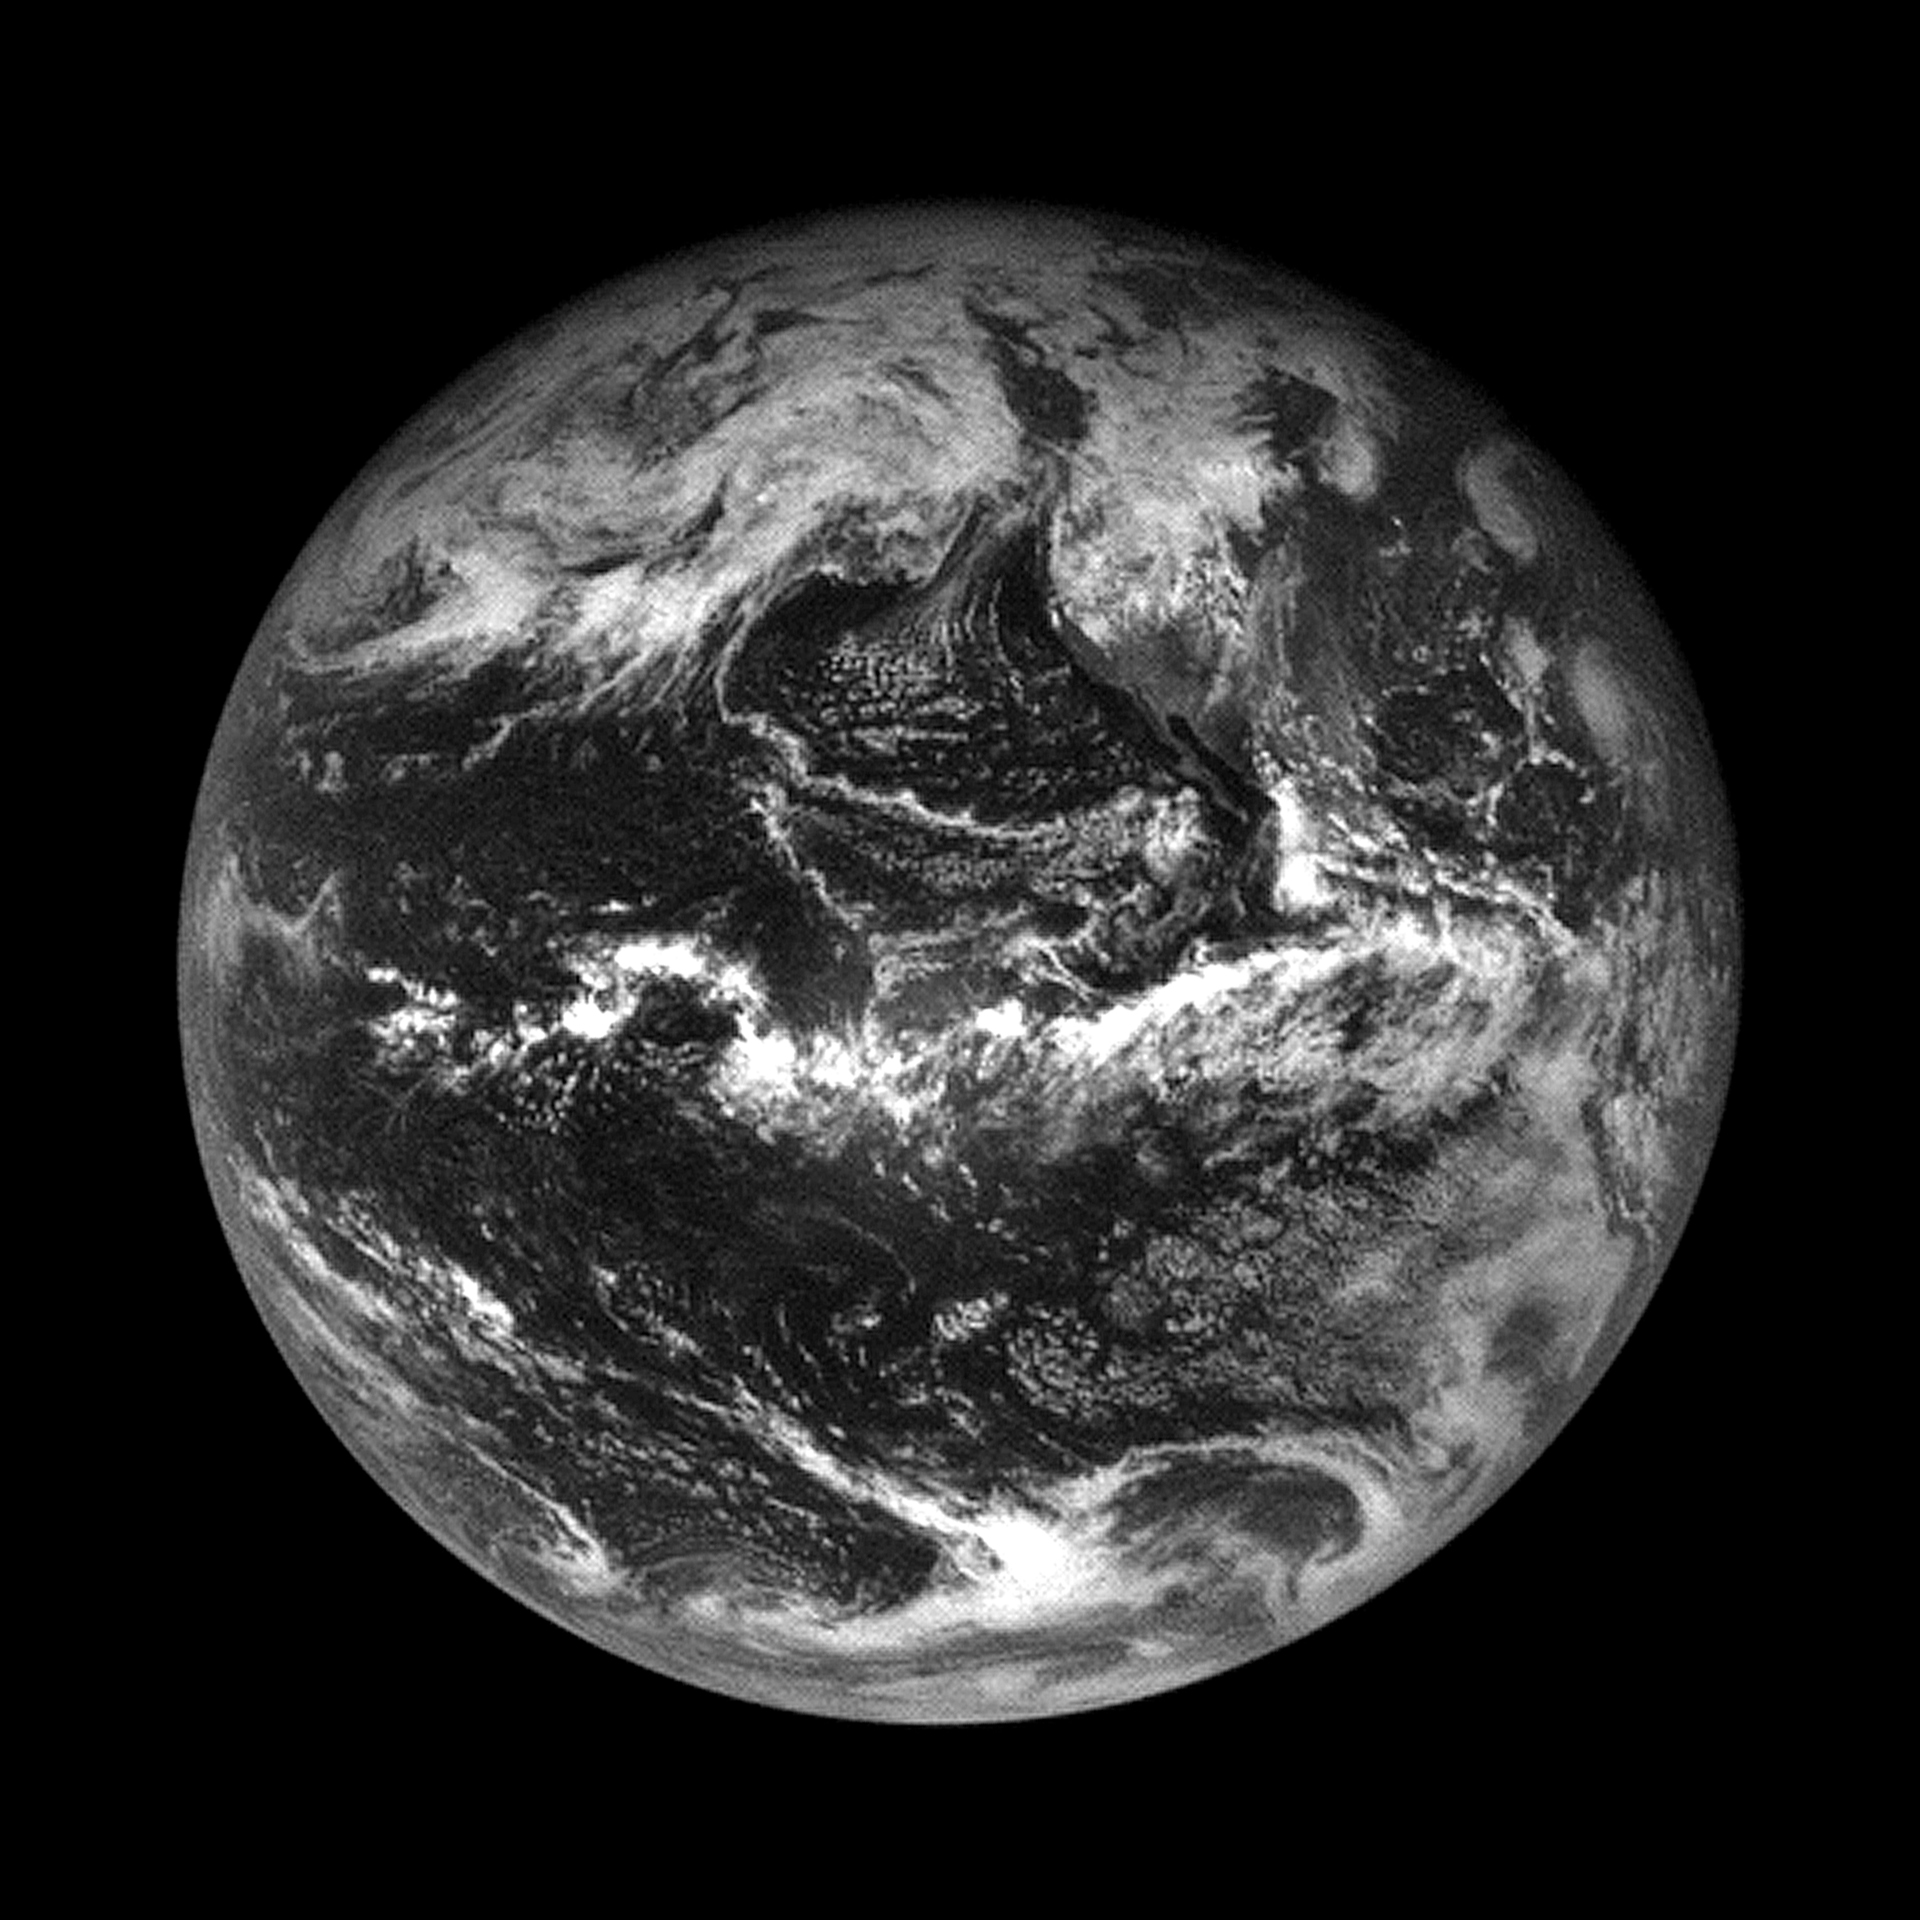
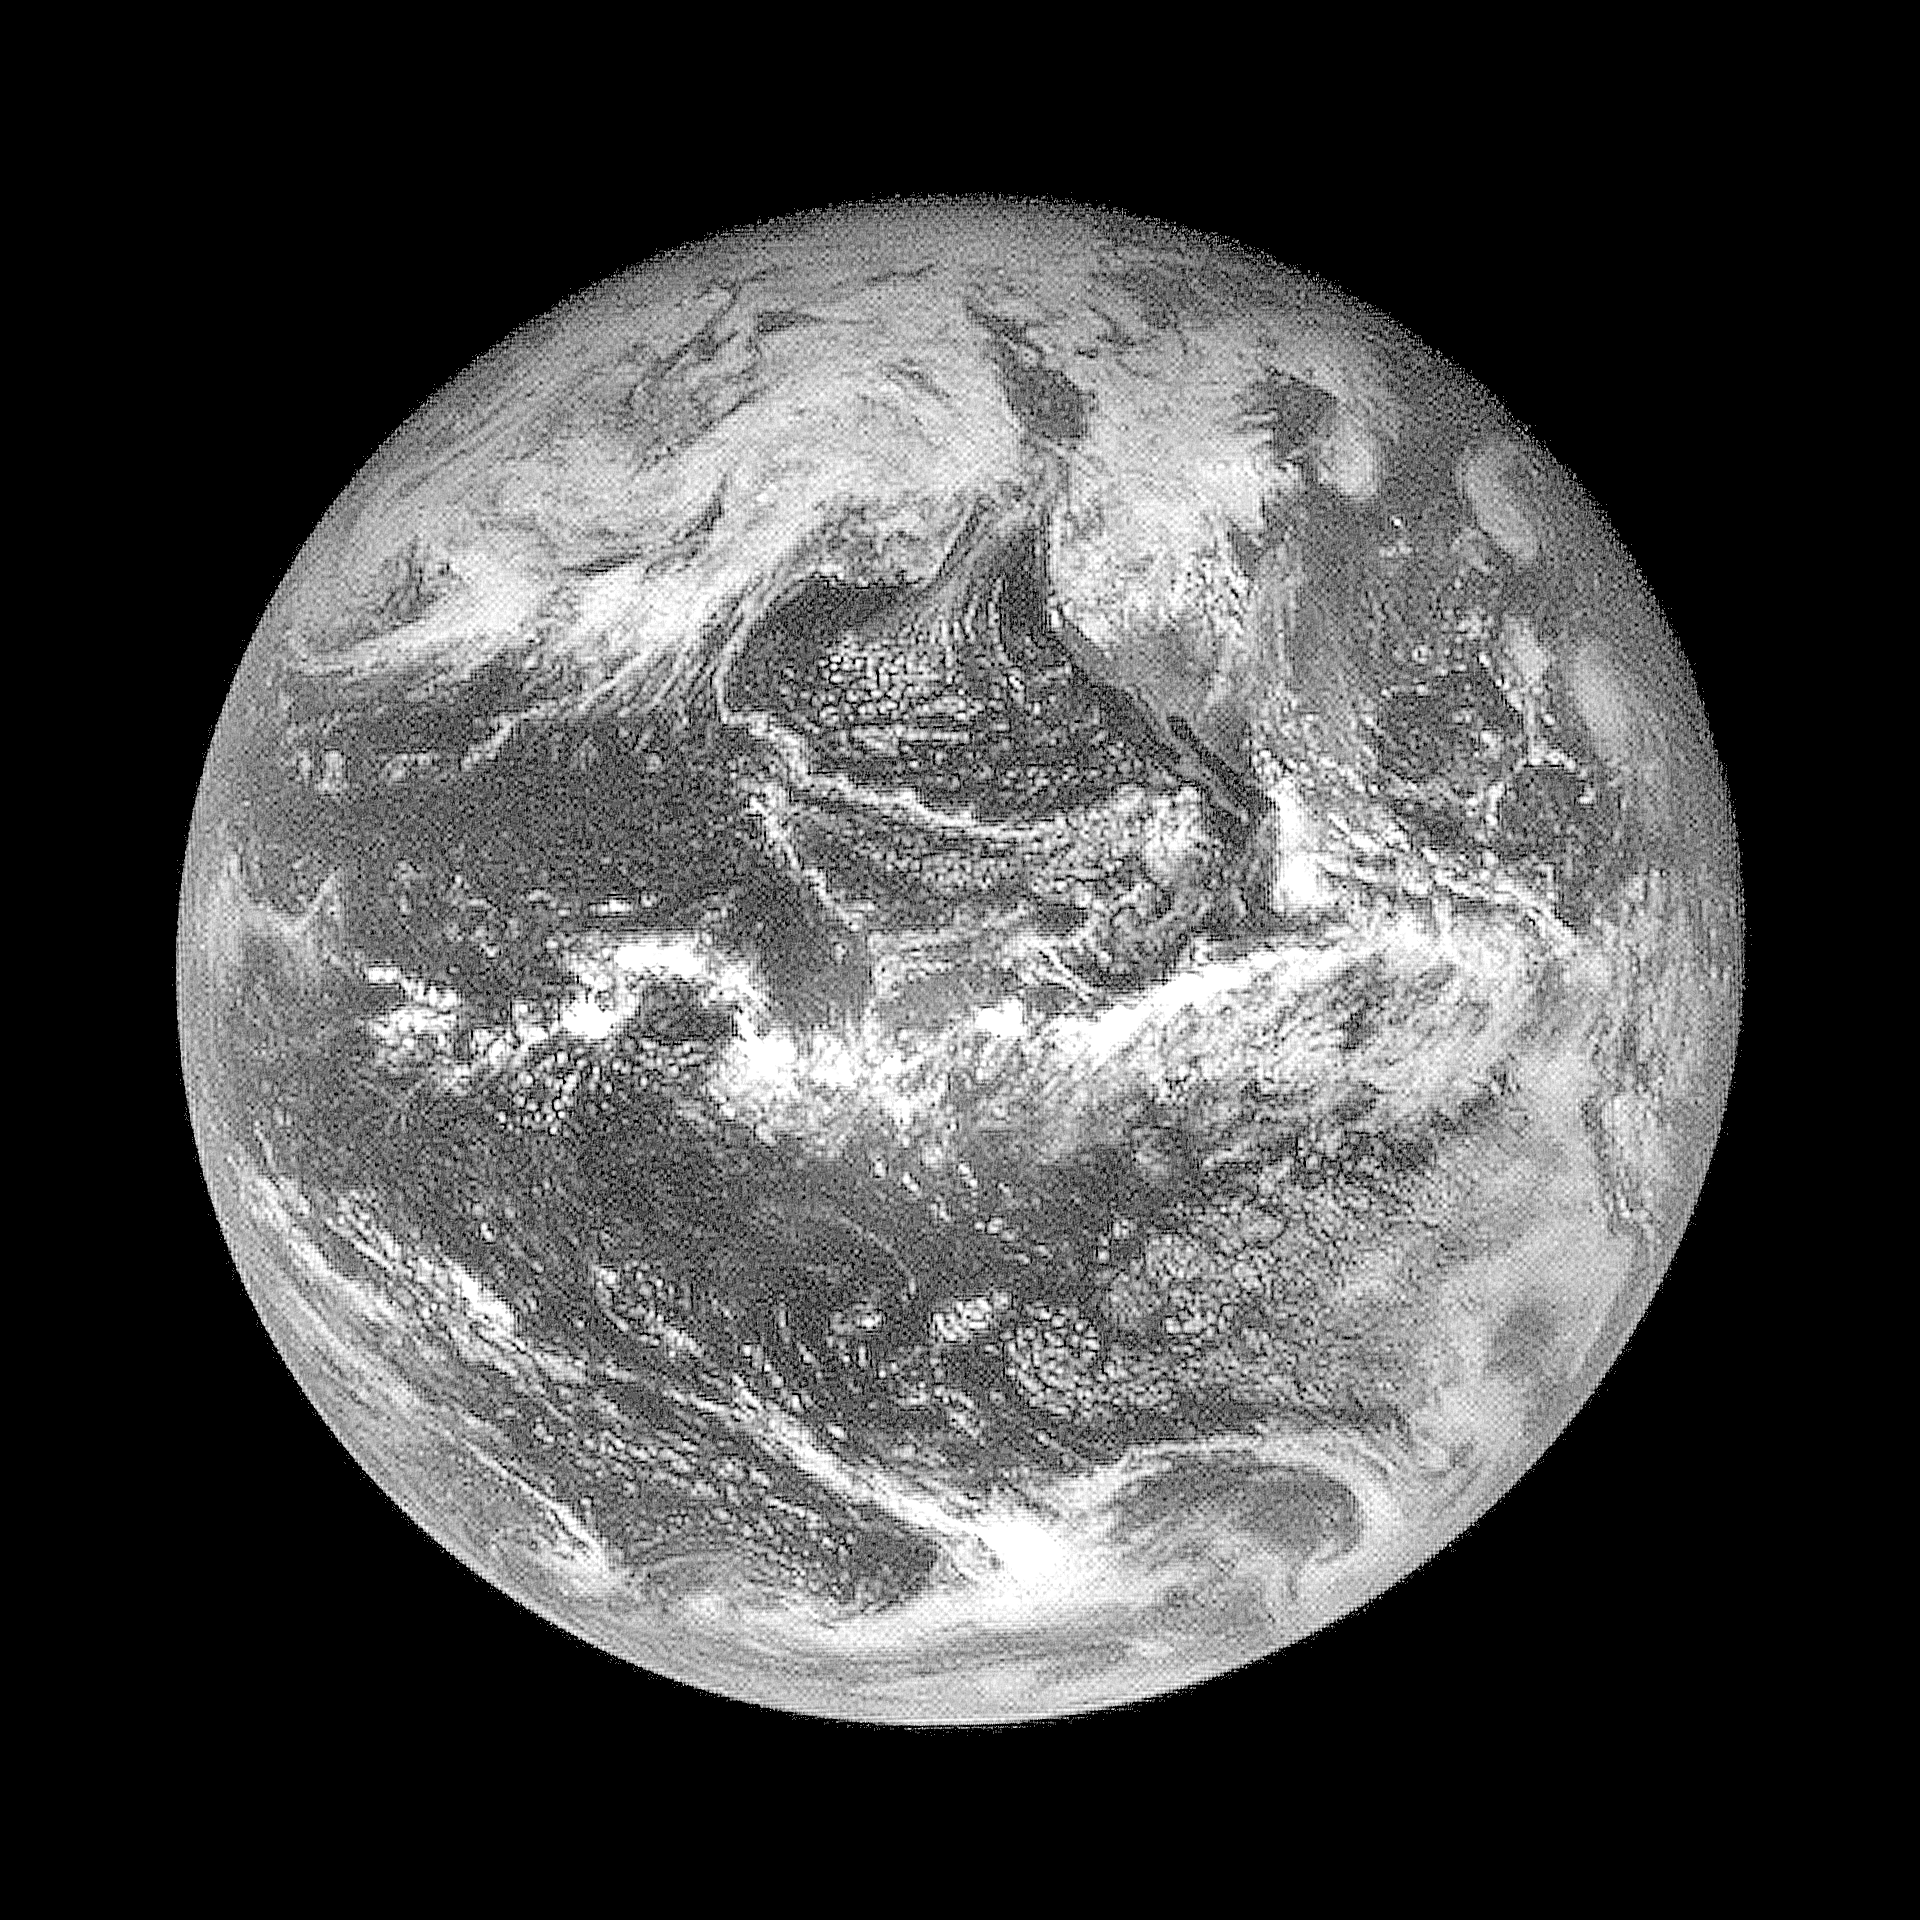
странно, но работает

diff --git a/lab2/server/src/com/company/ImageHandler.java b/lab2/server/src/com/company/ImageHandler.java
@@ -6,7 +6,14 @@ import java.awt.image.BufferedImage;
 
 public class ImageHandler {
 
-    public BufferedImage convolutionFilter(BufferedImage source, int div, int[][] kernel){
+    public static final float[][] CONTRAST_FILTER_KERNEL =
+           {{-1, -1, -1},
+            {-1,  9, -1},
+            {-1, -1, -1}};
+
+    public static final float CONTRAST_FILTER_DIV = 9;
+
+    public static BufferedImage convolutionFilter(BufferedImage source, float[][] kernel, float div){
 
         int width = source.getWidth();
         int heigth = source.getHeight();
@@ -21,26 +28,48 @@ public class ImageHandler {
 
                 int resultRGB = source.getRGB(x, y);
 
-                if(x - kernelWidth/2 >= 0 &&
-                   x + kernelWidth/2 <= width &&
-                   y - kernelWidth/2 >= 0 &&
-                   y + kernelWidth/2 <= heigth) {
+                if(x - kernelWidth/2 > 0 &&
+                   x + kernelWidth/2 < width &&
+                   y - kernelWidth/2 > 0 &&
+                   y + kernelWidth/2 < heigth) {
 
-                    Color color = new Color(resultRGB);
+                    float r = 0;
+                    float g = 0;
+                    float b = 0;
 
                     for (int ky = 0; ky < kernelHeight; ky++) {
                         for (int kx = 0; kx < kernelWidth; kx++) {
 
-                            int red = source
+                            int sourceRGB = source.getRGB(x + kx - kernelWidth/2, y + ky - kernelHeight/2);
+
+                            float factor = kernel[ky][kx];
+
+                            float red = ((sourceRGB & 0xff0000) >> 16) * factor;
+                            float green = ((sourceRGB & 0xff00) >> 8) * factor;
+                            float blue = (sourceRGB & 0xff) * factor;
+
+                            r += red;
+                            g += green;
+                            b += blue;
                         }
                     }
-                }
 
+                    r = (r > 255) ? 255 : r;
+                    g = (g > 255) ? 255 : g;
+                    b = (b > 255) ? 255 : b;
+
+                    r = (r < 0) ? 0 : r;
+                    g = (g < 0) ? 0 : g;
+                    b = (b < 0) ? 0 : b;
+
+                    Color color = new Color((int)r, (int)g, (int)b);
+                    resultRGB = color.getRGB();
+                }
                 result.setRGB(x, y, resultRGB);
             }
         }
 
-        return source;
+        return result;
     }
 
 }

diff --git a/lab2/server/src/test/Test.java b/lab2/server/src/test/Test.java
@@ -9,7 +9,7 @@ import java.io.IOException;
 
 public class Test {
 
-    public static BufferedImage loadFormFile(String path){
+    public static BufferedImage loadImageFormFile(String path){
         BufferedImage image = null;
         try {
             File file = new File(path);
@@ -20,7 +20,7 @@ public class Test {
         return image;
     }
 
-    public static void writeToFile(BufferedImage image, String fileName, String extension) {
+    public static void saveImageToFile(BufferedImage image, String fileName, String extension) {
         File file = new File(fileName + "." + extension);
         try {
             ImageIO.write(image, extension, file);
@@ -30,11 +30,11 @@ public class Test {
     }
 
     public static void run(){
-        BufferedImage source = loadFormFile("source.jpg");
+        BufferedImage source = loadImageFormFile("source.jpg");
 
-        ImageHandler imageHandler = new ImageHandler();
-        BufferedImage result = imageHandler.convolutionFilter(source);
+        BufferedImage result = ImageHandler.convolutionFilter(
+                source, ImageHandler.CONTRAST_FILTER_KERNEL, ImageHandler.CONTRAST_FILTER_DIV);
 
-        writeToFile(result, "result", "png");
+        saveImageToFile(result, "result", "png");
     }
 }
